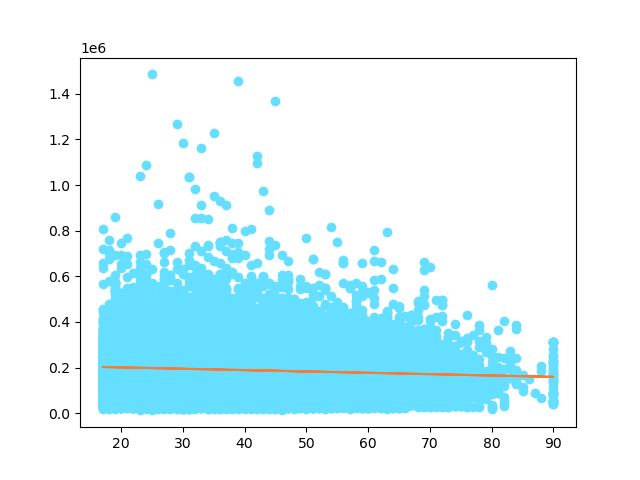
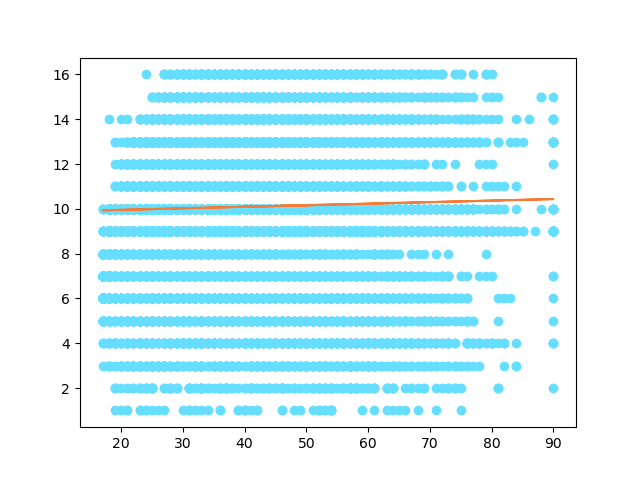
examples run properly

diff --git a/src/visualize_data.py b/src/visualize_data.py
@@ -12,7 +12,7 @@
 #' @export
 #'
 #' @examples
-#' python ./src/visualize_data.py './data/adult.data' './data/adult_data_plot.png' '0' '2' 
+#' python ./src/visualize_data.py ./data/adult.data ./data/adult_data_plot.png age education-num
 import sys
 import argparse
 import pandas as pd
@@ -24,8 +24,8 @@ from regression import regression
 parser = argparse.ArgumentParser(description='Download data from a source (either URL or relative local path) and save it locally to provided relative local path')
 parser.add_argument('source', metavar='source', type=str, help='a local path/filename pointing to the data')
 parser.add_argument('path', metavar='path', type=str, help='a local path/filename prefix where to write the figure to and what to call it')
-parser.add_argument('x', metavar='x', type=int, help="an explanatory numerical variable represented as a column's index in the 'source' data set")
-parser.add_argument('y', metavar='y', type=int, help="a response numerical variable represented as a column's index in the 'source' data set")
+parser.add_argument('x', metavar='x', type=str, help="an explanatory numerical variable represented as a column's index in the 'source' data set")
+parser.add_argument('y', metavar='y', type=str, help="a response numerical variable represented as a column's index in the 'source' data set")
 
 args = parser.parse_args()
 source = args.source
@@ -33,9 +33,9 @@ path = args.path
 x = args.x
 y = args.y
 
-df = pd.read_csv(source, header=None)
-x_col = df.iloc[:, x]
-y_col = df.iloc[:, y]
+df = pd.read_csv(source)
+x_col = df[x]
+y_col = df[y]
 
 m, b = regression(x_col, y_col)
 

diff --git a/src/process_data.py b/src/process_data.py
@@ -9,9 +9,11 @@
 #' @export
 #'
 #' @examples
-#' python ./src/process_data.py "data/adult.data" 
+#' python ./src/process_data.py data/adult.data
 import argparse
 import os
+import warnings
+warnings.simplefilter(action='ignore', category=FutureWarning)
 import pandas as pd
 
 import sys
@@ -27,7 +29,7 @@ source = args.source
 if (os.path.exists(source)):
     
     # load data, specifying there are no column names included in a header
-    data = pd.read_csv(source, header=None)
+    data = pd.read_csv(source, header=None, index_col=0)
     
     # save a copy of it at the new location
     new = source + '_unprocessed.data'

diff --git a/src/download_data.py b/src/download_data.py
@@ -10,7 +10,7 @@
 #' @export
 #'
 #' @examples
-#' python ./src/download_data.py 'https://archive.ics.uci.edu/ml/machine-learning-databases/adult/adult.data' './data/adult.data' 
+#' python ./src/download_data.py https://archive.ics.uci.edu/ml/machine-learning-databases/adult/adult.data ./data/adult.data 
 import argparse
 import shutil
 import requests
